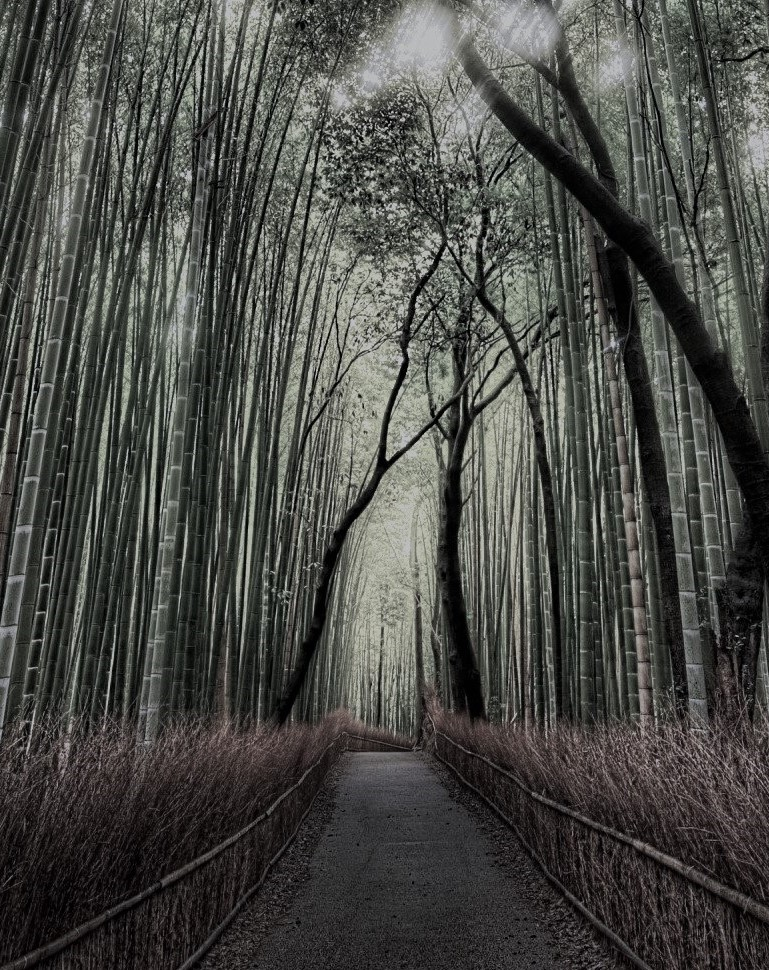
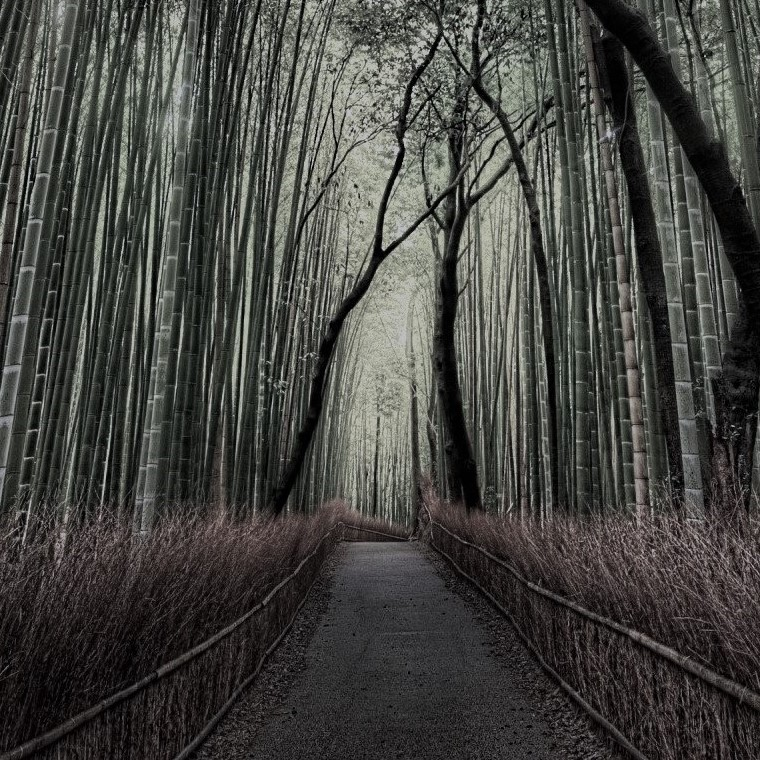
added style

diff --git a/style.css b/style.css
@@ -1,6 +1,6 @@
 body {
     position: relative;
-    background-image: url("bamboo-denim-wide.jpg");
+    background-image: url("bamboo-denim.jpg");
     background-size: cover;
     background-repeat: no-repeat;
     text-align: center;
@@ -12,16 +12,16 @@ body {
     position: relative;
     top: 1.2rem;
     border-radius: 100%;
-    border: 0.018rem black solid;
+    border: 0.5rem black solid;
     z-index: 3;
-    height: 4.5rem;
-    width: 4.5rem;
+    height: 140px;
+    width: 140px;
     
 }
 #banner {
     position: relative;
-    bottom: 6.5rem;
-    height: 6.5rem;
+    bottom: 220px;
+    height: 10rem;
     background-image: url("keyboard.jpg");
     z-index: -2;
     border-radius: 25%;
@@ -29,23 +29,25 @@ body {
     
 }
 #name {
-    margin-top: 0rem;
-    margin-bottom: 0rem;
+    position: relative;
+    bottom: 20px;
     z-index: 2;
-    color: rgb(255, 255, 255);
-    text-shadow: 2px 3px rgb(158, 5, 107);
-    font-size: 270%;
+    color: blanchedalmond;
+    text-shadow: 2px 3px rgb(255, 0, 0);
+    font-size: 370%;
 }
 #title {
-    margin-top: 0em;
-    margin-bottom: 0em;
+    position: relative;
+    margin: 0 auto;
+    top: 230px;
     z-index: 2;
-    color: rgb(255, 255, 255);
+    background-color: black;
+    width: 250px;
+    color: blanchedalmond;
     text-shadow: 2px 3px rgb(0, 17, 255);
     font-size: 170%;
 }
 figure {
-    margin-bottom: 0;
     z-index: 2;
 }
 nav {
@@ -98,7 +100,13 @@ p {
     border-radius: 15%;
 }
 #profile_pic {
+    clip-path: polygon(0 15%, 100% 15%, 75% 100%, 25% 100%);
     position: relative;
-    bottom: 10rem;
+    margin: 0 auto;
+    border: 10px black solid;
+    bottom: 90px;
     z-index: -1;
+}
+header {
+    height: 450px;
 }
